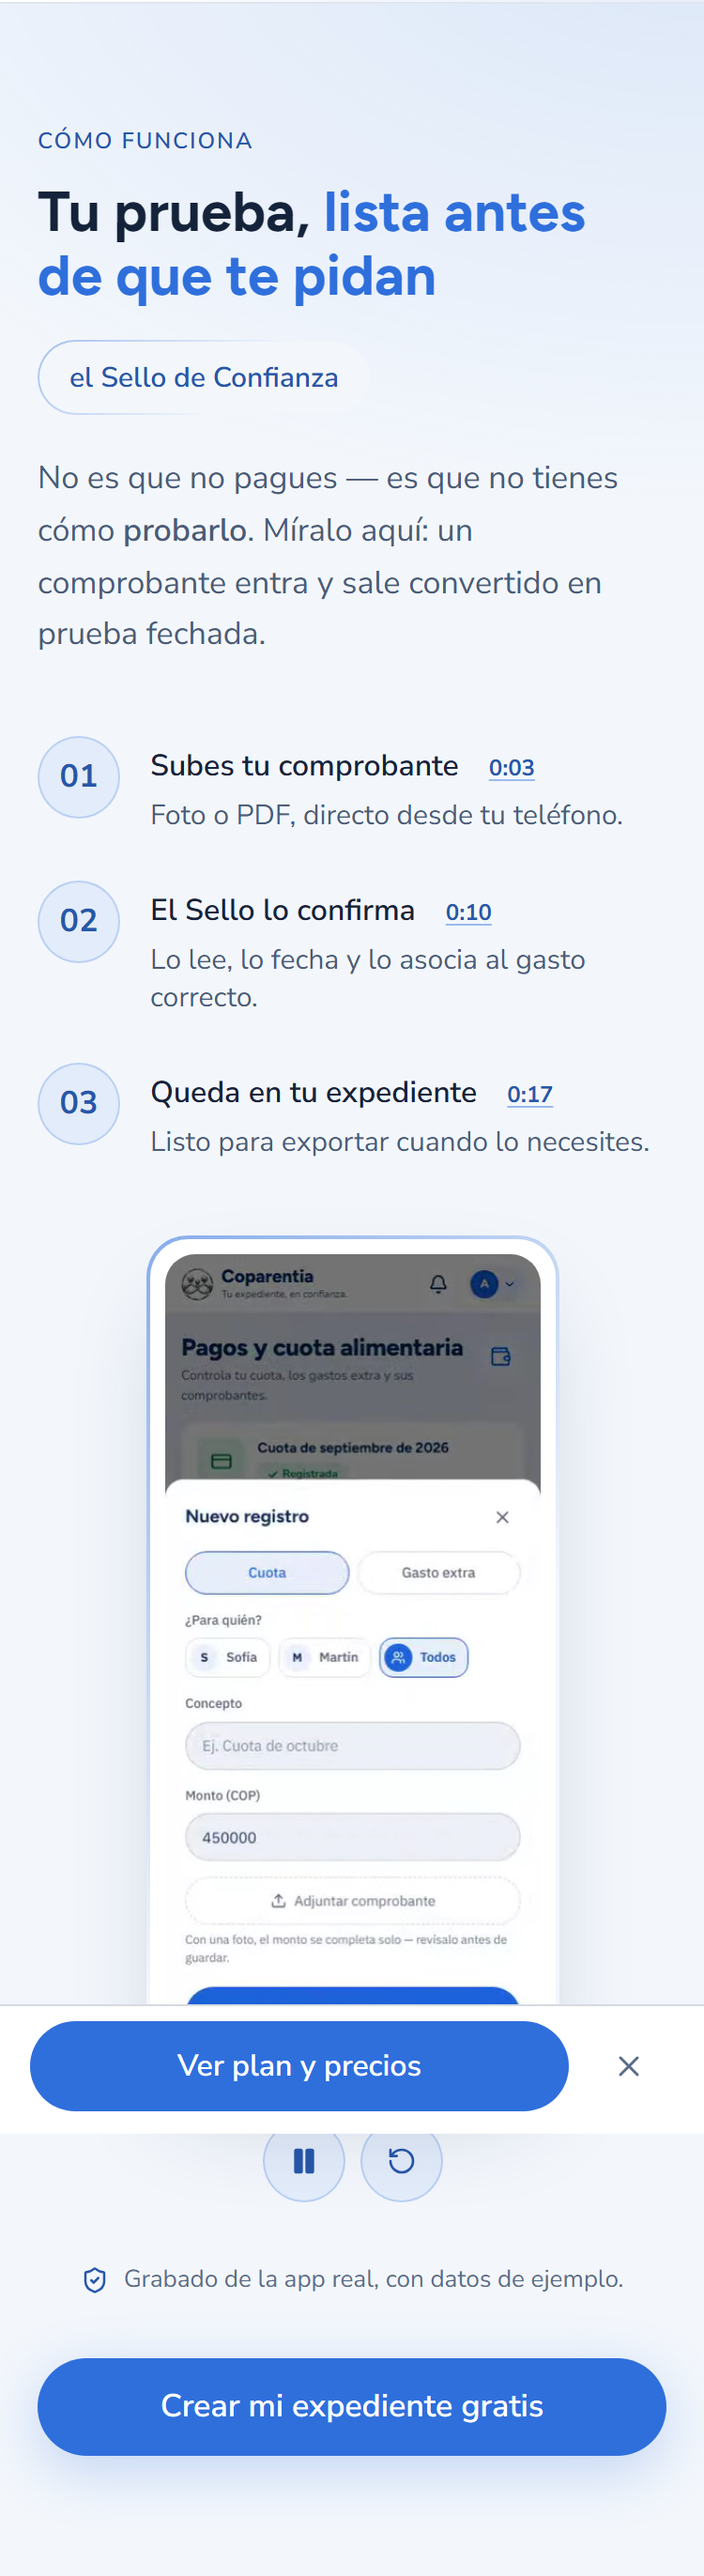
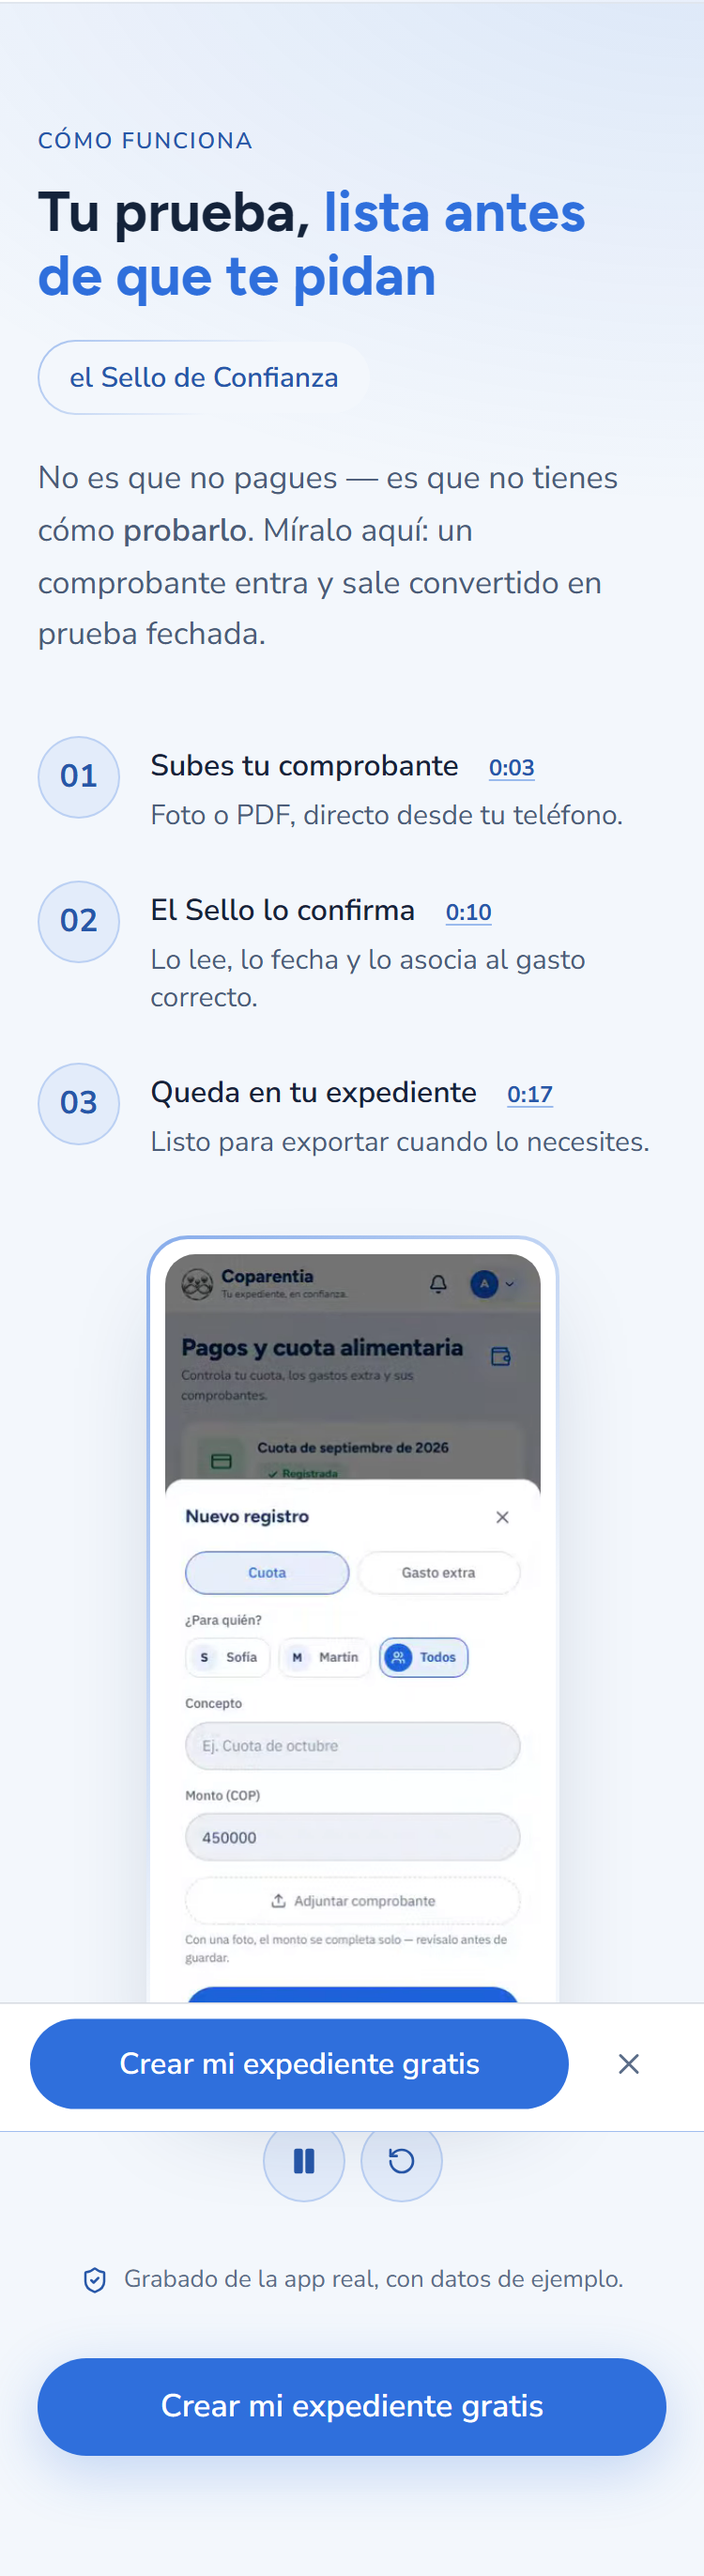
fix(landing): ninguna promesa se anima y el relleno de la barra es solo movil
Ronda 14 del revisor:

- El dato del hero vuelve a ser fijo ("Listo en 10 minutos"): al contar, un
  cuadro intermedio decia "7 minutos", que es otra promesa. Lo que se mueve
  ahora es la entrada de la burbuja (fade + subida).
- El padding compensatorio de la barra fija se aplica solo bajo 768px: la
  barra es md:hidden y en computador dejaba un hueco fantasma al pie.

Changed region(s): [[0.1533, 0.7744, 0.7053, 0.8054], [0.8893, 0.7744, 0.92, 0.8054]]

diff --git a/components/landing/Hero.tsx b/components/landing/Hero.tsx
@@ -16,7 +16,6 @@
 import type { ReactNode } from 'react';
 import { motion } from 'motion/react';
 import { Camera } from 'lucide-react';
-import { CountUp } from './ui';
 import { Blob, CheckCustom, CtaButton, useReveal } from './ui';
 import { MarkedCopy, truncarMarcado, warnCopy } from './MarkedCopy';
 
@@ -191,7 +190,10 @@ export function Hero({
               </div>
             )}
             {burbuja && (
-              <div
+              <motion.div
+                initial={{ opacity: 0, y: 12 }}
+                animate={{ opacity: 1, y: 0 }}
+                transition={{ delay: 0.35, duration: 0.4, ease: [0.16, 1, 0.3, 1] }}
                 className="absolute bottom-2 right-0 w-[48%] max-w-[220px] rounded-[var(--radius-card)] rounded-bl-[8px] px-5 py-4 text-left text-[var(--on-accent)] shadow-[0_18px_40px_-14px_color-mix(in_oklab,var(--accent-deep,var(--accent))_60%,transparent)] lg:bottom-6 lg:right-2"
                 // Desde --accent (4.7:1 con blanco), no desde la nota clara: con #5b93e8 el 12px al 85%
                 // medía 2.8:1 (revisor, clara r3) — mismo fallo ya corregido en el bloque de cierre.
@@ -199,9 +201,9 @@ export function Hero({
               >
                 <p className="text-[12px] font-semibold lg:text-[13px]">{burbuja.titulo}</p>
                 <p className="mt-1 text-[22px] font-extrabold leading-[1.1] [font-family:var(--font-display)] md:text-[26px]">
-                  <CountUp text={burbuja.dato} />
+                  {burbuja.dato}
                 </p>
-              </div>
+              </motion.div>
             )}
           </motion.div>
         </motion.div>

diff --git a/components/landing/ui.tsx b/components/landing/ui.tsx
@@ -411,7 +411,9 @@ export function StickyCtaMobile({
 
   // La barra flota sobre el documento: sin esto tapa ~76px de lo que quede al fondo de la pantalla.
   useEffect(() => {
-    if (!visible) return;
+    // Solo en celular: la barra es `md:hidden`, así que en computador el relleno dejaba un hueco
+    // fantasma al pie de la página.
+    if (!visible || !window.matchMedia('(max-width: 767px)').matches) return;
     const anterior = document.body.style.paddingBottom;
     document.body.style.paddingBottom = '76px';
     return () => {
